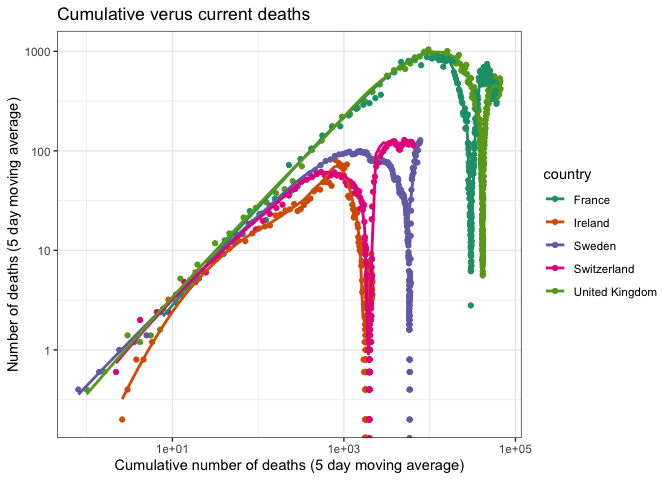
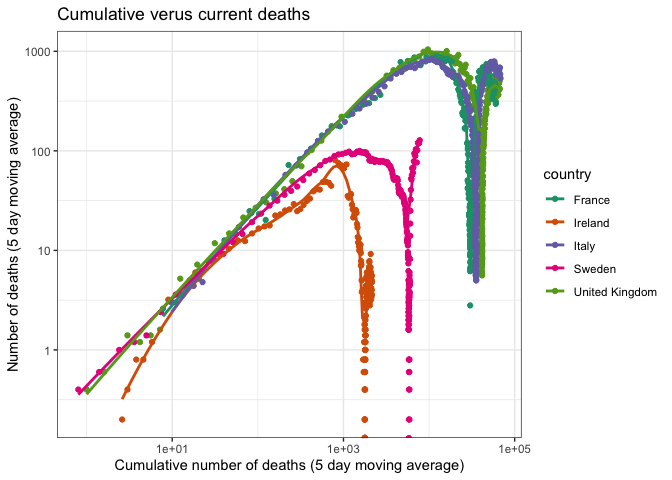
New update

diff --git a/README.md b/README.md
@@ -20,7 +20,7 @@ countryList = c('Ireland',
             'United Kingdom',
             'Sweden',
             'France',
-            'Switzerland')
+            'Italy')
 ```
 
 ## Download data
@@ -197,15 +197,12 @@ pander(d3[d3$julian%in%ind$julian,
 | Database |    Country     |    Date    | Days post 50 cases | New Cases | New Deaths | Total deaths |
 |:--------:|:--------------:|:----------:|:------------------:|:---------:|:----------:|:------------:|
 |   CSSE   |    Ireland     | 2020-12-11 |        269         |    304    |     3      |     2120     |
-|   CSSE   |    Ireland     | 2020-12-12 |        270         |    249    |     3      |     2123     |
 |   CSSE   |    Ireland     | 2020-12-14 |        272         |    264    |     2      |     2126     |
 |   CSSE   |    Ireland     | 2020-12-18 |        276         |    576    |     6      |     2149     |
 |   CSSE   |    Ireland     | 2020-12-21 |        279         |    725    |     0      |     2158     |
 |  ECDPC   |    Ireland     | 2020-12-11 |        269         |    303    |     15     |     2117     |
-|  ECDPC   |    Ireland     | 2020-12-12 |        270         |    304    |     3      |     2120     |
 |  ECDPC   |    Ireland     | 2020-12-14 |        272         |    429    |     1      |     2124     |
 |   CSSE   | United Kingdom | 2020-12-11 |        283         |   21784   |    424     |    63603     |
-|   CSSE   | United Kingdom | 2020-12-12 |        284         |   21554   |    520     |    64123     |
 |   CSSE   | United Kingdom | 2020-12-14 |        286         |   20377   |    233     |    64500     |
 |   CSSE   | United Kingdom | 2020-12-18 |        290         |   28560   |    490     |    66640     |
 |   CSSE   | United Kingdom | 2020-12-21 |        293         |   33517   |    215     |    67718     |
@@ -217,14 +214,13 @@ pander(d3[d3$julian%in%ind$julian,
 |   CSSE   |     France     | 2020-12-18 |        291         |   16005   |    612     |    60345     |
 |   CSSE   |     France     | 2020-12-21 |        294         |   5960    |    354     |    61019     |
 |  ECDPC   |     France     | 2020-12-11 |        281         |   13750   |    292     |    56940     |
-|  ECDPC   |     France     | 2020-12-12 |        282         |   13406   |    627     |    57567     |
 |  ECDPC   |     France     | 2020-12-14 |        284         |   11533   |    150     |    57911     |
-|   CSSE   |  Switzerland   | 2020-12-11 |        280         |   5136    |    104     |     5928     |
-|   CSSE   |  Switzerland   | 2020-12-14 |        283         |   10726   |    169     |     6154     |
-|   CSSE   |  Switzerland   | 2020-12-18 |        287         |   4478    |     74     |     6561     |
-|   CSSE   |  Switzerland   | 2020-12-21 |        290         |   10002   |    159     |     6781     |
-|  ECDPC   |  Switzerland   | 2020-12-11 |        279         |   5038    |     87     |     5273     |
-|  ECDPC   |  Switzerland   | 2020-12-12 |        280         |   5111    |    105     |     5378     |
+|   CSSE   |     Italy      | 2020-12-11 |        292         |   18726   |    761     |    63387     |
+|   CSSE   |     Italy      | 2020-12-14 |        295         |   12025   |    491     |    65011     |
+|   CSSE   |     Italy      | 2020-12-18 |        299         |   15401   |    674     |    67894     |
+|   CSSE   |     Italy      | 2020-12-21 |        302         |   10869   |    415     |    69214     |
+|  ECDPC   |     Italy      | 2020-12-11 |        292         |   16998   |    887     |    62626     |
+|  ECDPC   |     Italy      | 2020-12-14 |        295         |   17937   |    484     |    64520     |
 
 Table 1: The latest numbers from the European Centre for Diesease
 Prevention and Control (ECDPC). <https://www.ecdc.europa.eu/en> and
